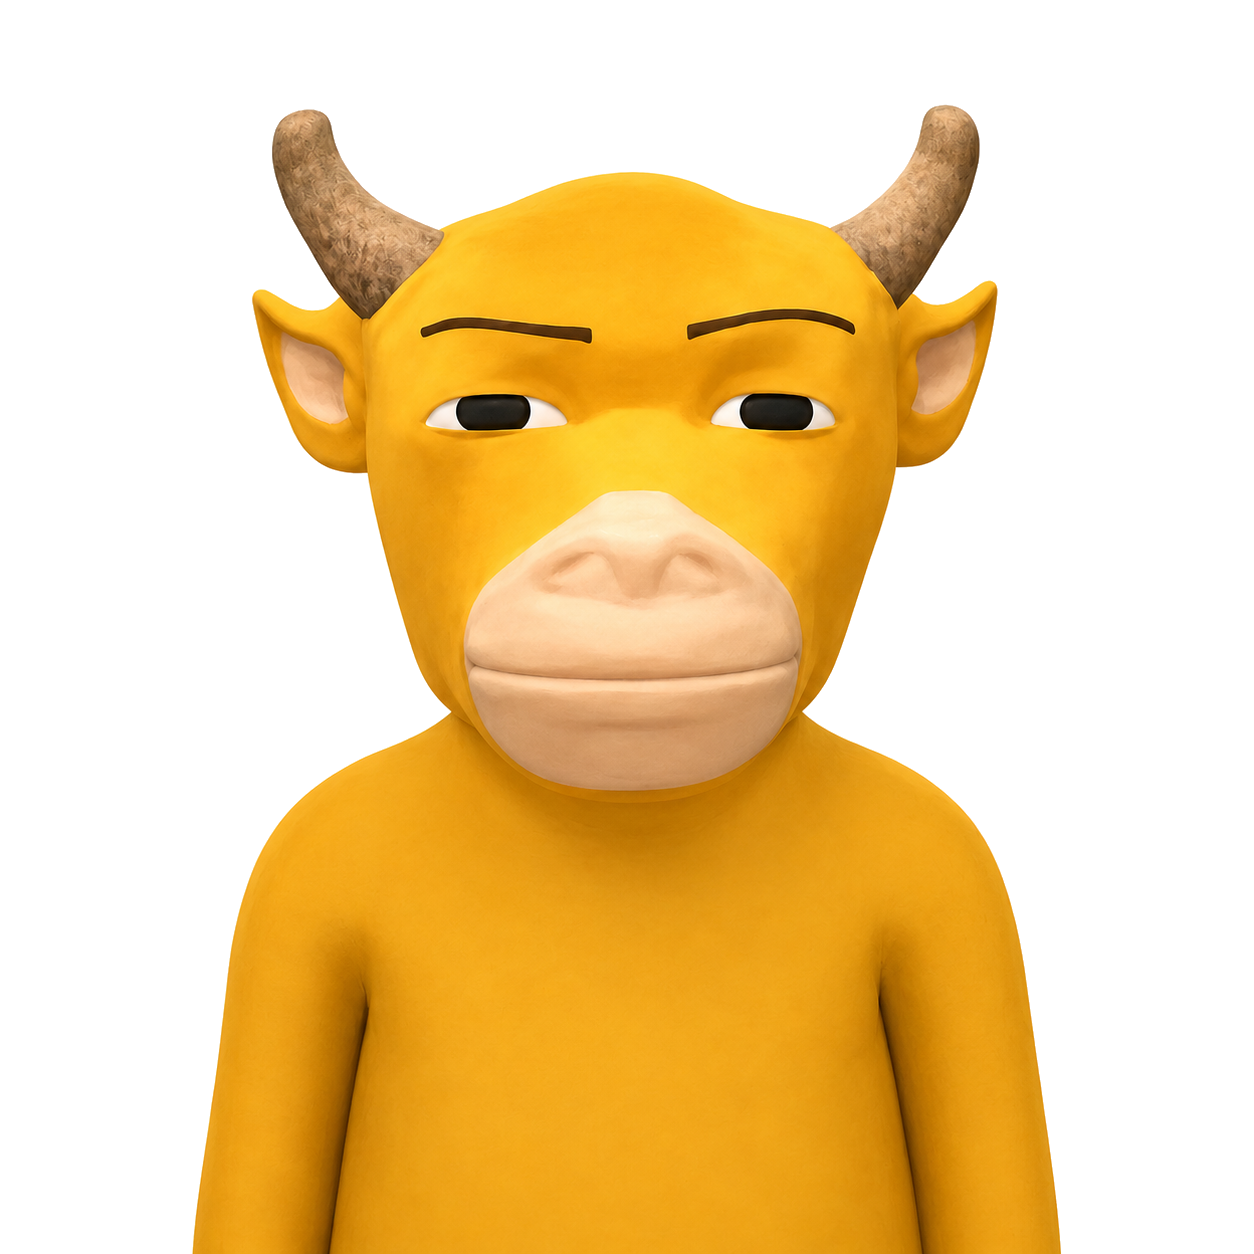
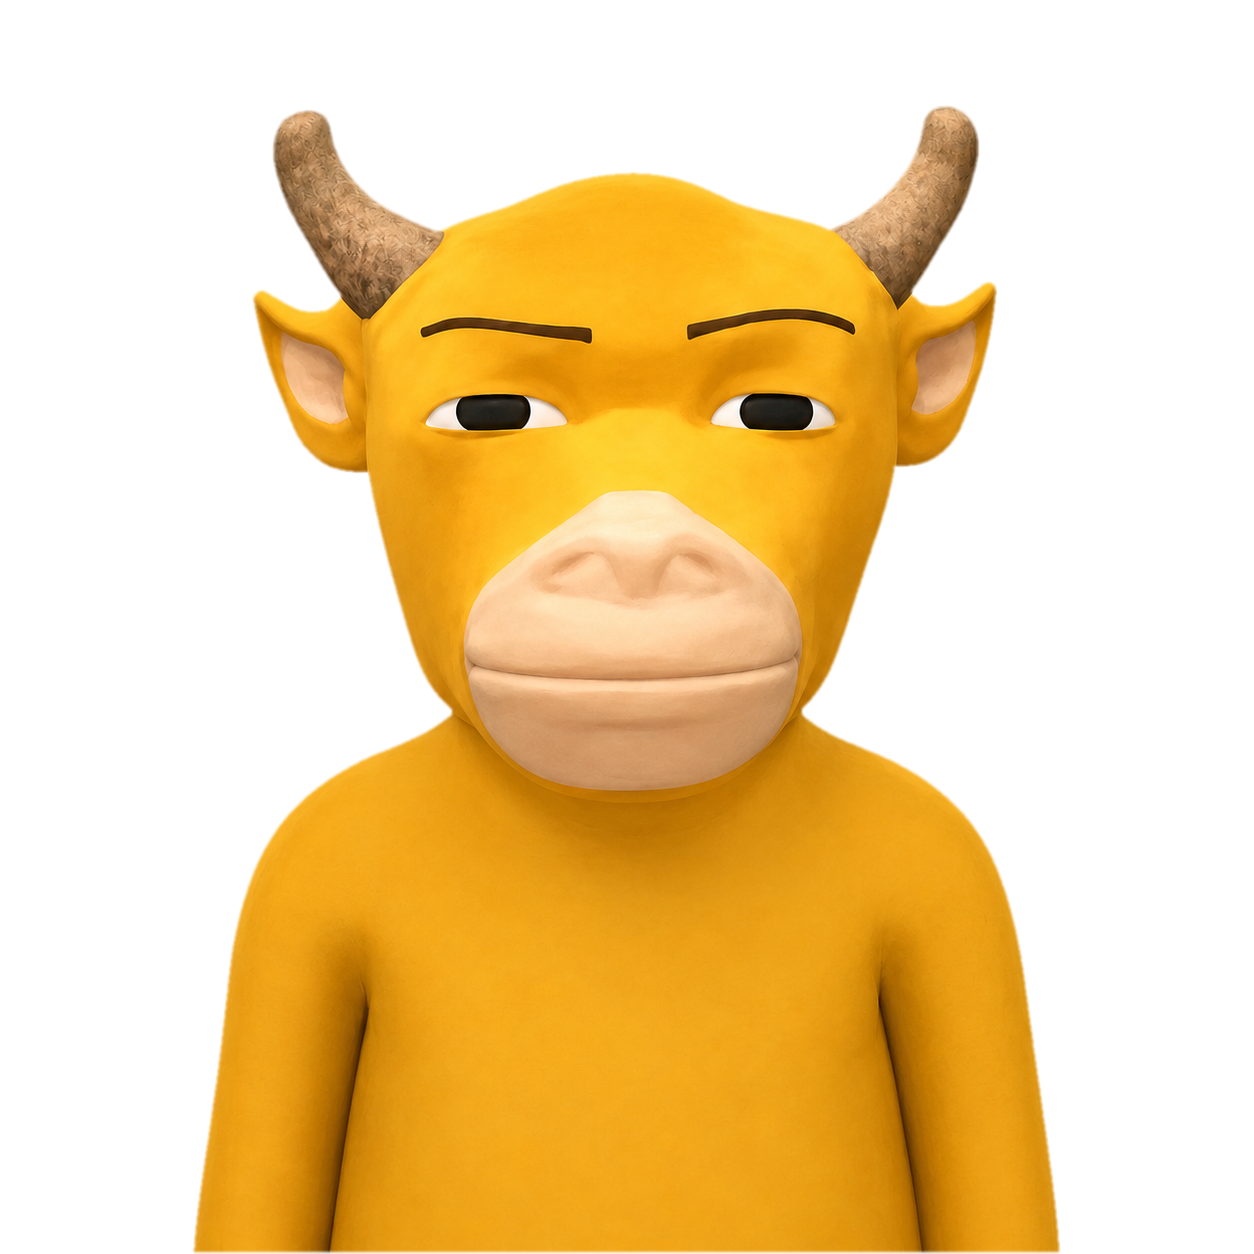
Fix white fringe on body cutouts (2px edge erosion + alpha feather), add us city + lake backgrounds

diff --git a/scripts/remove-white.js b/scripts/remove-white.js
@@ -32,30 +32,54 @@ async function removeWhite(src, dest) {
     if (y < H - 1) stack.push(p + W);
   }
 
+  // erode the character edge inward — eats the white-blended anti-aliasing ring
+  const ERODE = 2;
+  for (let e = 0; e < ERODE; e++) {
+    const ring = [];
+    for (let p = 0; p < W * H; p++) {
+      if (mask[p]) continue;
+      const x = p % W, y = (p / W) | 0;
+      let touch = false;
+      for (let dy = -1; dy <= 1 && !touch; dy++) {
+        for (let dx = -1; dx <= 1 && !touch; dx++) {
+          const nx = x + dx, ny = y + dy;
+          if (nx < 0 || ny < 0 || nx >= W || ny >= H) { touch = true; break; }
+          if (mask[ny * W + nx]) touch = true;
+        }
+      }
+      if (touch) ring.push(p);
+    }
+    for (const p of ring) mask[p] = 1;
+  }
+
   let removed = 0;
   for (let p = 0; p < W * H; p++) {
     if (mask[p]) { data[p * 4 + 3] = 0; removed++; }
   }
 
-  // feather: soften bright neutral pixels that touch the removed region (kills the white fringe)
-  for (let p = 0; p < W * H; p++) {
-    if (mask[p]) continue;
-    const x = p % W, y = (p / W) | 0;
-    const touching =
-      (x > 0 && mask[p - 1]) || (x < W - 1 && mask[p + 1]) ||
-      (y > 0 && mask[p - W]) || (y < H - 1 && mask[p + W]);
-    if (!touching) continue;
-    const i = p * 4;
-    const mn = Math.min(data[i], data[i + 1], data[i + 2]);
-    const mx = Math.max(data[i], data[i + 1], data[i + 2]);
-    if (mn >= 180 && mx - mn <= 24) {
-      data[i + 3] = Math.max(0, Math.min(255, (235 - mn) * 4 + 60));
+  // soften the cut: 3x3 box blur on the alpha channel (two passes) for a smooth edge
+  for (let pass = 0; pass < 2; pass++) {
+    const src = new Uint8Array(W * H);
+    for (let p = 0; p < W * H; p++) src[p] = data[p * 4 + 3];
+    for (let y = 0; y < H; y++) {
+      for (let x = 0; x < W; x++) {
+        let sum = 0, n = 0;
+        for (let dy = -1; dy <= 1; dy++) {
+          for (let dx = -1; dx <= 1; dx++) {
+            const nx = x + dx, ny = y + dy;
+            if (nx < 0 || ny < 0 || nx >= W || ny >= H) continue;
+            sum += src[ny * W + nx];
+            n++;
+          }
+        }
+        data[(y * W + x) * 4 + 3] = Math.round(sum / n);
+      }
     }
   }
 
   await sharp(data, { raw: { width: W, height: H, channels: 4 } }).png().toFile(dest);
   const pct = ((removed / (W * H)) * 100).toFixed(1);
-  console.log('wrote ' + dest + ' (' + pct + '% background removed)');
+  console.log('wrote ' + dest + ' (' + pct + '% background removed, edge eroded ' + ERODE + 'px + feathered)');
 }
 
 const [src, dest] = process.argv.slice(2);

diff --git a/public/index.html b/public/index.html
@@ -224,6 +224,8 @@ async function loadLayers() {
   const data = await r.json();
   layers = data.layers;
   validCombos = data.validCombos;
+  const bust = Date.now();
+  layers.forEach((l) => l.traits.forEach((t) => { t.url += '?t=' + bust; })); // rescan shows fresh art
   sel = layers.map(() => 0);
   alignGroups(null);
   renderLayers();
